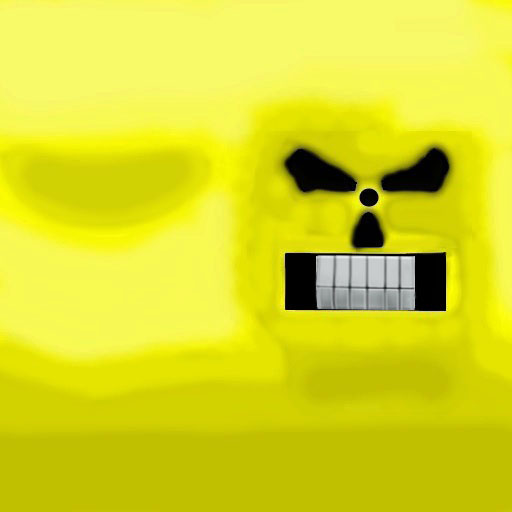
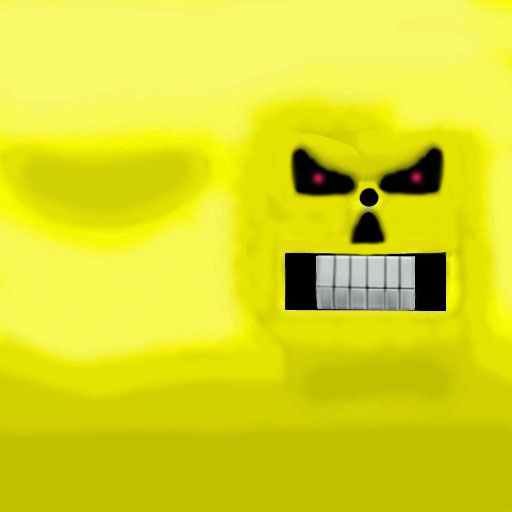
Update to rank 2 Boardbot

Changed region(s): [[0.6562, 0.2812, 0.9062, 0.5], [0.5312, 0.25, 0.75, 0.4062]]

diff --git a/Boardbot Code Files (Needs to be fixed)/toontown/toonbase/TTLocalizerEnglish.py b/Boardbot Code Files (Needs to be fixed)/toontown/toonbase/TTLocalizerEnglish.py
@@ -2301,7 +2301,7 @@ SuitMoneyBags = 'Money Bags'
 SuitLoanShark = 'Loan Shark'
 SuitRobberBaron = 'Robber Baron'
 SuitConman = 'Conman'
-SuitPlaceholder2 = 'Tycoon'
+SuitPlaceholder2 = 'Connoisseur'
 SuitPlaceholder3 = 'Magnate'
 SuitPlaceholder4 = 'Big Shot'
 SuitPlaceholder5 = 'Proprietor'
@@ -2341,7 +2341,7 @@ SuitMoneyBagsS = 'a Money Bags'
 SuitLoanSharkS = 'a Loan Shark'
 SuitRobberBaronS = 'a Robber Baron'
 SuitConmanS = 'a Conman'
-SuitPlaceholder2S = 'a Tycoon'
+SuitPlaceholder2S = 'a Connoisseur'
 SuitPlaceholder3S = 'a Magnate'
 SuitPlaceholder4S = 'a Big Shot'
 SuitPlaceholder5S = 'a Proprietor'
@@ -2381,7 +2381,7 @@ SuitMoneyBagsP = 'Money Bags'
 SuitLoanSharkP = 'Loan Sharks'
 SuitRobberBaronP = 'Robber Barons'
 SuitConmanP = 'Conmen'
-SuitPlaceholder2P = 'Tycoons'
+SuitPlaceholder2P = 'Connoisseurs'
 SuitPlaceholder3P = 'Magnates'
 SuitPlaceholder4P = 'Big Shots'
 SuitPlaceholder5P = 'Proprietors'

diff --git a/Boardbot Code Files (Needs to be fixed)/toontown/suit/SuitGlobals.py b/Boardbot Code Files (Needs to be fixed)/toontown/suit/SuitGlobals.py
@@ -17,7 +17,7 @@ ColdCallerHead = VBase4(0.25, 0.35, 1.0, 1.0) # Head used by Cold Caller
                
                  #Boardbots
 suitProperties = {'cm': (4.0 / cSize, SuitDNA.boardPolyColor, ['tightwad'], 'conman.jpg', 4.81),
-                  'b2': (3.375 / bSize, SuitDNA.boardPolyColor, ['movershaker'], 'tycoon.jpg', 5.24),
+                  'b2': (3.75 / bSize, SuitDNA.boardPolyColor, ['downsizer', 'hatjp187187'], '', 5.5),
                   'b3': (4.5 / aSize, SuitDNA.boardPolyColor, ['legaleagle'], 'suit-heads_palette_3cmla_22.jpg', 5.5),
                   'b4': (5.3 / cSize, VBase4(0.95, 0.95, 1.0, 1.0), ['gladhander'], '', 6.7),
                   'b5': (4.75 / aSize, SuitDNA.boardPolyColor, ['telemarketer'], 'proprietor.jpg', 5.24),
